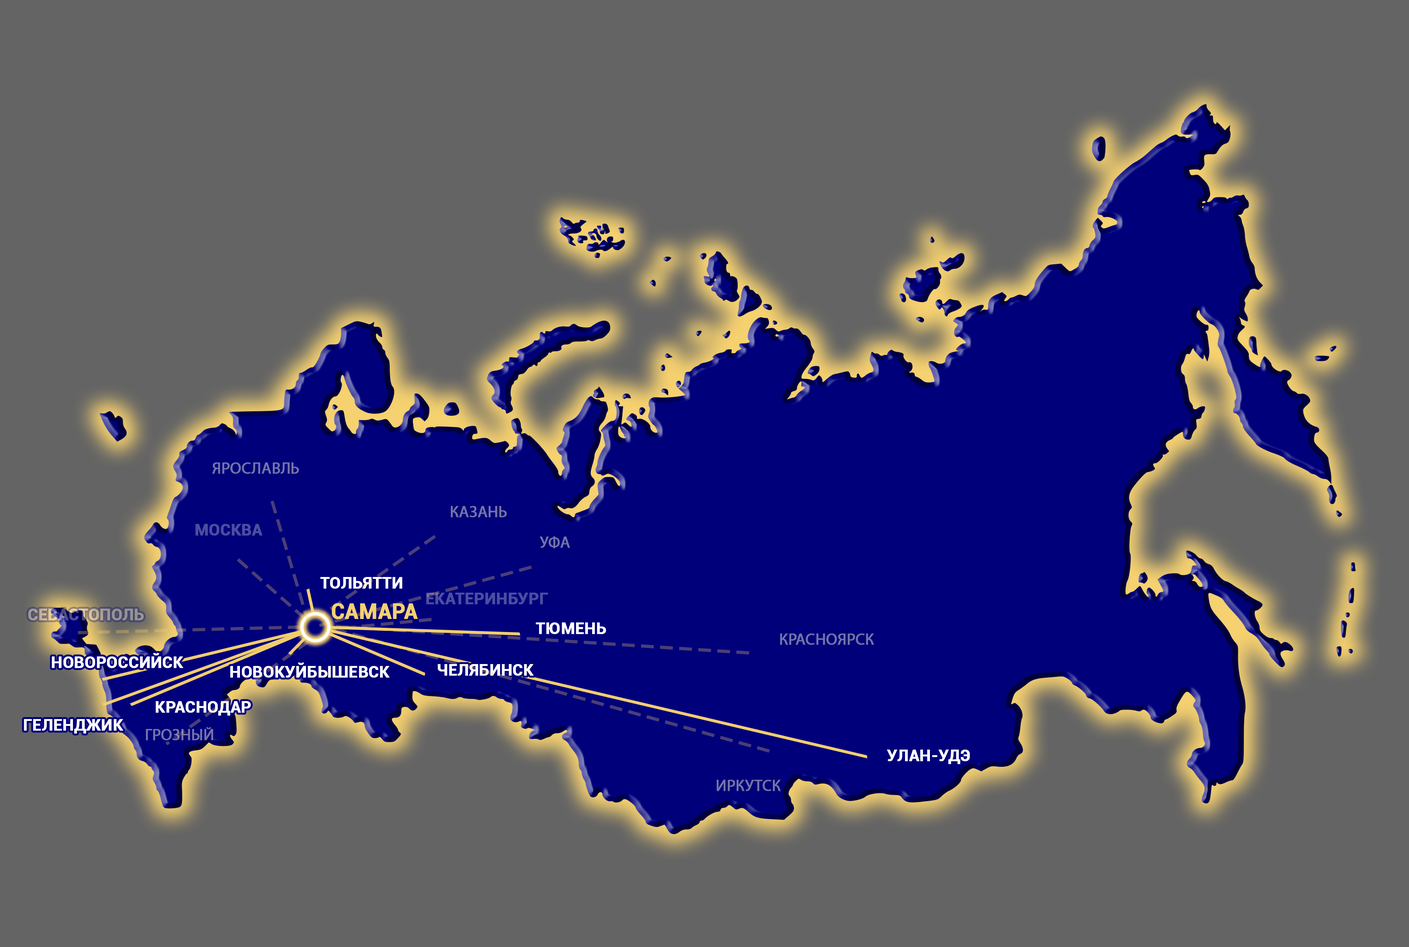
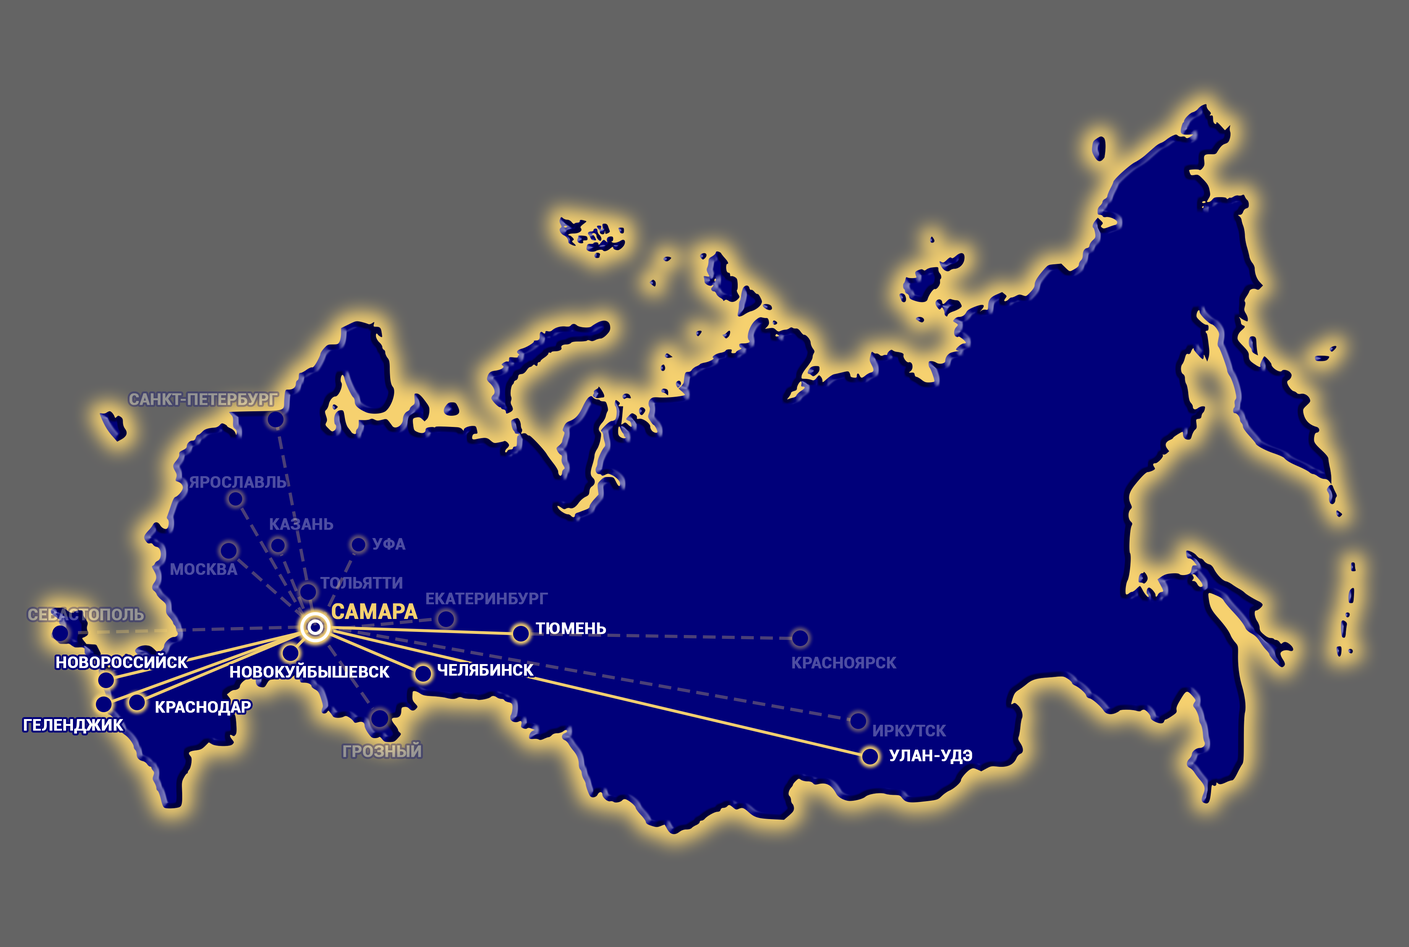
karta

diff --git a/karta/css/style.min.css b/karta/css/style.min.css
@@ -1,1 +1,1 @@
-*{margin:0;padding:0;-webkit-tap-highlight-color:rgba(0,0,0,0)}.karta{margin:0 auto;background:url(../img/Карта1.png);height:500px;position:relative;max-width:800px;background-repeat:no-repeat;background-position:center;background-size:100%}.karta__active{width:10px;position:absolute;height:10px;border-radius:50%;border:1px solid #dabd6d;box-shadow:0 0 2px 2px #dabd6d;cursor:pointer;background-color:#00007a}.karta__not-active{width:10px;position:absolute;height:10px;border-radius:50%;border:1px solid #393177;box-shadow:0 0 2px 2px #7066b8;background-color:#00007a;cursor:pointer}#tolyati{top:303px;left:21%}#tolyati:hover::before{-webkit-animation:pulse 1s;animation:pulse 1s;content:"";width:200px;position:absolute;top:-100px;left:10px;background-image:url(../img/Всплывашка_4.png);background-size:cover;height:100px;z-index:1}#samara{top:332px;left:173px}#samara:hover::before{-webkit-animation:pulse 1s;animation:pulse 1s;content:"";width:200px;position:absolute;top:-100px;left:10px;z-index:1;background-image:url(../img/Всплывашка_1.png);background-size:cover;height:100px}#chelyabinsk{top:363px;left:241px}#chelyabinsk:hover::before{-webkit-animation:pulse 1s;animation:pulse 1s;content:"";width:200px;position:absolute;top:-100px;z-index:1;left:10px;background-image:url(../img/Всплывашка_2.png);background-size:cover;height:100px}#chelyabinsk:focus::before{-webkit-animation:pulse 1s;animation:pulse 1s;content:"";width:200px;z-index:1;position:absolute;top:-100px;left:10px;background-image:url(../img/Всплывашка_2.png);background-size:cover;height:100px}#newKub{top:350px;left:153px}#newKub:hover::before{-webkit-animation:pulse 1s;animation:pulse 1s;content:"";width:200px;position:absolute;z-index:1;top:-100px;left:10px;background-image:url(../img/Всплывашка_3.png);background-size:cover;height:100px}#newKub:focus::before{-webkit-animation:pulse 1s;animation:pulse 1s;content:"";width:200px;z-index:1;position:absolute;top:-100px;left:10px;background-image:url(../img/Всплывашка_3.png);background-size:cover;height:100px}#newRos{top:362px;box-shadow:0 0 1px 2px #ffdb77;left:53px}#newRos:hover::before{-webkit-animation:pulse 1s;animation:pulse 1s;content:"";width:200px;z-index:1;position:absolute;top:-100px;left:10px;background-image:url(../img/Всплывашка_5.png);background-size:cover;height:100px}#newRos:focus::before{-webkit-animation:pulse 1s;animation:pulse 1s;content:"";width:200px;position:absolute;top:-100px;z-index:1;left:10px;background-image:url(../img/Всплывашка_5.png);background-size:cover;height:100px}#gelendgik{top:380px;box-shadow:0 0 1px 2px #ffdb77;left:53px}#gelendgik:hover::before{-webkit-animation:pulse 1s;animation:pulse 1s;content:"";width:200px;z-index:1;position:absolute;top:-100px;left:10px;background-image:url(../img/Всплывашка_5.png);background-size:cover;height:100px}#gelendgik:focus::before{-webkit-animation:pulse 1s;animation:pulse 1s;content:"";width:200px;position:absolute;top:-100px;z-index:1;left:10px;background-image:url(../img/Всплывашка_5.png);background-size:cover;height:100px}#krasnodar{top:380px;box-shadow:0 0 1px 2px #ffdb77;left:69px}#krasnodar:hover::before{-webkit-animation:pulse 1s;animation:pulse 1s;content:"";width:200px;position:absolute;z-index:1;top:-100px;left:10px;background-image:url(../img/Всплывашка_5.png);background-size:cover;height:100px}#krasnodar:focus::before{-webkit-animation:pulse 1s;animation:pulse 1s;content:"";width:200px;position:absolute;top:-100px;z-index:1;left:10px;background-image:url(../img/Всплывашка_5.png);background-size:cover;height:100px}#tumen{top:336px;left:293px}#tumen:hover::before{-webkit-animation:pulse 1s;animation:pulse 1s;content:"";width:200px;position:absolute;z-index:1;top:-100px;left:10px;background-image:url(../img/Всплывашка_1.png);background-size:cover;height:100px}#ulan{top:405px;left:490px}#ulan:hover::before{-webkit-animation:pulse 1s;animation:pulse 1s;content:"";width:200px;z-index:1;position:absolute;top:-100px;left:10px;background-image:url(../img/Всплывашка_1.png);background-size:cover;height:100px}#moscow{top:290px;left:125px}#moscow:hover::before{-webkit-animation:pulse 1s;animation:pulse 1s;content:"";z-index:1;width:200px;position:absolute;top:-100px;left:10px;background-image:url(../img/Всплывашка_6.png);background-size:cover;height:100px}#ekaterenburg{top:326px;left:243px}#ekaterenburg:hover::before{-webkit-animation:pulse 1s;animation:pulse 1s;z-index:1;content:"";width:200px;position:absolute;top:-100px;left:10px;background-image:url(../img/Всплывашка_7.png);background-size:cover;height:100px}#sevastopol{top:334px;left:30px}#sevastopol:hover::before{-webkit-animation:pulse 1s;animation:pulse 1s;content:"";width:200px;position:absolute;top:-100px;left:10px;background-image:url(../img/Всплывашка_7.png);background-size:cover;height:100px}#yaroslavl{top:253px;left:148px}#yaroslavl:hover::before{-webkit-animation:pulse 1s;animation:pulse 1s;content:"";z-index:1;width:200px;position:absolute;top:-100px;left:10px;background-image:url(../img/Всплывашка_7.png);background-size:cover;height:100px}#kazan{top:278px;left:243px}#kazan:hover::before{-webkit-animation:pulse 1s;animation:pulse 1s;content:"";z-index:1;width:200px;position:absolute;top:-100px;left:10px;background-image:url(../img/Всплывашка_7.png);background-size:cover;height:100px}#ufa{top:295px;left:300px}#ufa:hover::before{-webkit-animation:pulse 1s;animation:pulse 1s;content:"";z-index:1;width:200px;position:absolute;top:-100px;left:10px;background-image:url(../img/Всплывашка_7.png);background-size:cover;height:100px}#krasnoyarsk{top:345px;left:420px}#krasnoyarsk:hover::before{-webkit-animation:pulse 1s;animation:pulse 1s;content:"";z-index:1;width:200px;position:absolute;top:-100px;left:10px;background-image:url(../img/Всплывашка_7.png);background-size:cover;height:100px}#irkutsk{top:405px;left:430px}#irkutsk:hover::before{-webkit-animation:pulse 1s;animation:pulse 1s;content:"";z-index:1;width:200px;position:absolute;top:-100px;left:10px;background-image:url(../img/Всплывашка_7.png);background-size:cover;height:100px}#grosniy{top:405px;left:90px}#grosniy:hover::before{-webkit-animation:pulse 1s;animation:pulse 1s;content:"";z-index:1;width:200px;position:absolute;top:-100px;left:10px;background-image:url(../img/Всплывашка_7.png);background-size:cover;height:100px}@-webkit-keyframes pulse{0%{width:0}100%{width:200px}}@keyframes pulse{0%{width:0}100%{width:200px}}@media (max-width:546px){.karta__active{width:5px;height:5px;border-radius:50%;cursor:pointer}.karta__not-active{width:5px;height:5px;border-radius:50%;cursor:pointer}}
+*{margin:0;padding:0;-webkit-tap-highlight-color:rgba(0,0,0,0)}.karta{margin:0 auto;background:url(../img/Карта1.png);height:500px;position:relative;max-width:800px;background-repeat:no-repeat;background-position:center;background-size:100%}.karta__active{width:8px;position:absolute;height:8px;border-radius:50%;border:1px solid #dabd6d;box-shadow:0 0 2px 2px #dabd6d;cursor:pointer;background-color:#00007a}.karta__not-active{width:8px;position:absolute;height:8px;border-radius:50%;border:1px solid #393177;box-shadow:0 0 2px 2px #7066b8;background-color:#00007a;cursor:pointer}#tolyati{top:310px;left:21%}#tolyati:hover::before{-webkit-animation:pulse 1s;animation:pulse 1s;content:"";width:200px;position:absolute;top:-100px;left:10px;background-image:url(../img/Всплывашка_7.png);background-size:cover;height:100px;z-index:1}#samara{top:332px;left:173px}#samara:hover::before{-webkit-animation:pulse 1s;animation:pulse 1s;content:"";width:200px;position:absolute;top:-100px;left:10px;z-index:1;background-image:url(../img/Всплывашка_1.png);background-size:cover;height:100px}#chelyabinsk{top:359px;left:235px}#chelyabinsk:hover::before{-webkit-animation:pulse 1s;animation:pulse 1s;content:"";width:200px;position:absolute;top:-100px;z-index:1;left:10px;background-image:url(../img/Всплывашка_2.png);background-size:cover;height:100px}#chelyabinsk:focus::before{-webkit-animation:pulse 1s;animation:pulse 1s;content:"";width:200px;z-index:1;position:absolute;top:-100px;left:10px;background-image:url(../img/Всплывашка_2.png);background-size:cover;height:100px}#newKub{top:347px;left:160px}#newKub:hover::before{-webkit-animation:pulse 1s;animation:pulse 1s;content:"";width:200px;position:absolute;z-index:1;top:-100px;left:10px;background-image:url(../img/Всплывашка_3.png);background-size:cover;height:100px}#newKub:focus::before{-webkit-animation:pulse 1s;animation:pulse 1s;content:"";width:200px;z-index:1;position:absolute;top:-100px;left:10px;background-image:url(../img/Всплывашка_3.png);background-size:cover;height:100px}#newRos{top:362px;box-shadow:0 0 1px 2px #ffdb77;left:53px}#newRos:hover::before{-webkit-animation:pulse 1s;animation:pulse 1s;content:"";width:200px;z-index:1;position:absolute;top:-100px;left:10px;background-image:url(../img/Всплывашка_5.png);background-size:cover;height:100px}#newRos:focus::before{-webkit-animation:pulse 1s;animation:pulse 1s;content:"";width:200px;position:absolute;top:-100px;z-index:1;left:10px;background-image:url(../img/Всплывашка_5.png);background-size:cover;height:100px}#gelendgik{top:377px;box-shadow:0 0 1px 2px #ffdb77;left:53px}#gelendgik:hover::before{-webkit-animation:pulse 1s;animation:pulse 1s;content:"";width:200px;z-index:1;position:absolute;top:-100px;left:10px;background-image:url(../img/ВсплывашкаГеленджик.png);background-size:cover;height:100px}#gelendgik:focus::before{-webkit-animation:pulse 1s;animation:pulse 1s;content:"";width:200px;position:absolute;top:-100px;z-index:1;left:10px;background-image:url(../img/ВсплывашкаГеленджик.png);background-size:cover;height:100px}#krasnodar{top:376px;box-shadow:0 0 1px 2px #ffdb77;left:72px}#krasnodar:hover::before{-webkit-animation:pulse 1s;animation:pulse 1s;content:"";width:200px;position:absolute;z-index:1;top:-100px;left:10px;background-image:url(../img/ВсплывашкаКраснодар.png);background-size:cover;height:100px}#krasnodar:focus::before{-webkit-animation:pulse 1s;animation:pulse 1s;content:"";width:200px;position:absolute;top:-100px;z-index:1;left:10px;background-image:url(../img/ВсплывашкаКраснодар.png);background-size:cover;height:100px}#tumen{top:336px;left:293px}#tumen:hover::before{-webkit-animation:pulse 1s;animation:pulse 1s;content:"";width:200px;position:absolute;z-index:1;top:-100px;left:10px;background-image:url(../img/ВсплывашкаТюмень.png);background-size:cover;height:100px}#ulan{top:405px;left:490px}#ulan:hover::before{-webkit-animation:pulse 1s;animation:pulse 1s;content:"";width:200px;z-index:1;position:absolute;top:-100px;left:10px;background-image:url(../img/ВсплывашкаУлан-Удэ.png);background-size:cover;height:100px}#moscow{top:290px;left:125px}#moscow:hover::before{-webkit-animation:pulse 1s;animation:pulse 1s;content:"";z-index:1;width:200px;position:absolute;top:-100px;left:10px;background-image:url(../img/Всплывашка_6.png);background-size:cover;height:100px}#ekaterenburg{top:328px;left:248px}#ekaterenburg:hover::before{-webkit-animation:pulse 1s;animation:pulse 1s;z-index:1;content:"";width:200px;position:absolute;top:-100px;left:10px;background-image:url(../img/Всплывашка_7.png);background-size:cover;height:100px}#sevastopol{top:334px;left:30px}#sevastopol:hover::before{-webkit-animation:pulse 1s;animation:pulse 1s;content:"";width:200px;position:absolute;top:-100px;left:10px;background-image:url(../img/Всплывашка_7.png);background-size:cover;height:100px}#yaroslavl{top:262px;left:129px}#yaroslavl:hover::before{-webkit-animation:pulse 1s;animation:pulse 1s;content:"";z-index:1;width:200px;position:absolute;top:-100px;left:10px;background-image:url(../img/Всплывашка_7.png);background-size:cover;height:100px}#kazan{top:285px;left:153px}#kazan:hover::before{-webkit-animation:pulse 1s;animation:pulse 1s;content:"";z-index:1;width:200px;position:absolute;top:-100px;left:10px;background-image:url(../img/Всплывашка_7.png);background-size:cover;height:100px}#ufa{top:285px;left:198px}#ufa:hover::before{-webkit-animation:pulse 1s;animation:pulse 1s;content:"";z-index:1;width:200px;position:absolute;top:-100px;left:10px;background-image:url(../img/Всплывашка_7.png);background-size:cover;height:100px}#krasnoyarsk{top:339px;left:450px}#krasnoyarsk:hover::before{-webkit-animation:pulse 1s;animation:pulse 1s;content:"";z-index:1;width:200px;position:absolute;top:-100px;left:10px;background-image:url(../img/Всплывашка_7.png);background-size:cover;height:100px}#irkutsk{top:385px;left:482px}#irkutsk:hover::before{-webkit-animation:pulse 1s;animation:pulse 1s;content:"";z-index:1;width:200px;position:absolute;top:-100px;left:10px;background-image:url(../img/Всплывашка_7.png);background-size:cover;height:100px}#grosniy{top:385px;left:210px}#grosniy:hover::before{-webkit-animation:pulse 1s;animation:pulse 1s;content:"";z-index:1;width:200px;position:absolute;top:-100px;left:10px;background-image:url(../img/Всплывашка_7.png);background-size:cover;height:100px}#peterburg{top:214px;left:152px}#peterburg:hover::before{-webkit-animation:pulse 1s;animation:pulse 1s;content:"";z-index:1;width:200px;position:absolute;top:-100px;left:10px;background-image:url(../img/Всплывашка_7.png);background-size:cover;height:100px}@-webkit-keyframes pulse{0%{width:0}100%{width:200px}}@keyframes pulse{0%{width:0}100%{width:200px}}@media (max-width:546px){.karta__active{width:5px;height:5px;border-radius:50%;cursor:pointer}.karta__not-active{width:5px;height:5px;border-radius:50%;cursor:pointer}}

diff --git a/karta/sass/style.sass b/karta/sass/style.sass
@@ -13,18 +13,18 @@
     background-position: center
     background-size: 100%
     &__active
-        width: 10px
+        width: 8px
         position: absolute
-        height: 10px
+        height: 8px
         border-radius: 50%
         border: 1px solid #DABD6D
         box-shadow: 0 0 2px 2px #dabd6d
         cursor: pointer
         background-color: #00007A
     &__not-active
-        width: 10px
+        width: 8px
         position: absolute
-        height: 10px
+        height: 8px
         border-radius: 50%
         border: 1px solid #393177
         box-shadow: 0 0 2px 2px #7066b8
@@ -33,7 +33,7 @@
 
 
 #tolyati
-    top: 303px
+    top: 310px
     left: 21%
     &:hover
         &::before
@@ -43,7 +43,7 @@
             position: absolute
             top: -100px
             left: 10px
-            background-image: url(../img/Всплывашка_4.png)
+            background-image: url(../img/Всплывашка_7.png)
             background-size: cover
             height: 100px
             z-index: 1
@@ -63,8 +63,8 @@
             background-size: cover
             height: 100px
 #chelyabinsk
-    top: 363px
-    left: 241px
+    top: 359px
+    left: 235px
     &:hover
         &::before
             animation: pulse 1s
@@ -91,8 +91,8 @@
             height: 100px
             
 #newKub
-    top: 350px
-    left: 153px
+    top: 347px
+    left: 160px
     &:hover
         &::before
             animation: pulse 1s
@@ -147,7 +147,7 @@
             background-size: cover
             height: 100px   
 #gelendgik
-    top: 380px
+    top: 377px
     box-shadow: 0 0 1px 2px #ffdb77
     left: 53px
     &:hover
@@ -159,7 +159,7 @@
             position: absolute
             top: -100px
             left: 10px
-            background-image: url(../img/Всплывашка_5.png)
+            background-image: url(../img/ВсплывашкаГеленджик.png)
             background-size: cover
             height: 100px
     &:focus
@@ -171,13 +171,13 @@
             top: -100px
             z-index: 1
             left: 10px
-            background-image: url(../img/Всплывашка_5.png)
+            background-image: url(../img/ВсплывашкаГеленджик.png)
             background-size: cover
             height: 100px   
 #krasnodar
-    top: 380px
+    top: 376px
     box-shadow: 0 0 1px 2px #ffdb77
-    left: 69px
+    left: 72px
     &:hover
         &::before
             animation: pulse 1s
@@ -187,7 +187,7 @@
             z-index: 1
             top: -100px
             left: 10px
-            background-image: url(../img/Всплывашка_5.png)
+            background-image: url(../img/ВсплывашкаКраснодар.png)
             background-size: cover
             height: 100px
     &:focus
@@ -199,7 +199,7 @@
             top: -100px
             z-index: 1
             left: 10px
-            background-image: url(../img/Всплывашка_5.png)
+            background-image: url(../img/ВсплывашкаКраснодар.png)
             background-size: cover
             height: 100px  
 #tumen
@@ -214,7 +214,7 @@
             z-index: 1
             top: -100px
             left: 10px
-            background-image: url(../img/Всплывашка_1.png)
+            background-image: url(../img/ВсплывашкаТюмень.png)
             background-size: cover
             height: 100px
 #ulan
@@ -229,7 +229,7 @@
             position: absolute
             top: -100px
             left: 10px
-            background-image: url(../img/Всплывашка_1.png)
+            background-image: url(../img/ВсплывашкаУлан-Удэ.png)
             background-size: cover
             height: 100px
 #moscow
@@ -248,8 +248,8 @@
             background-size: cover
             height: 100px
 #ekaterenburg
-    top: 326px
-    left: 243px
+    top: 328px
+    left: 248px
     &:hover
         &::before
             animation: pulse 1s
@@ -277,8 +277,8 @@
             background-size: cover
             height: 100px
 #yaroslavl
-    top: 253px
-    left: 148px
+    top: 262px
+    left: 129px
     &:hover
         &::before
             animation: pulse 1s
@@ -292,8 +292,8 @@
             background-size: cover
             height: 100px
 #kazan
-    top: 278px
-    left: 243px
+    top: 285px
+    left: 153px
     &:hover
         &::before
             animation: pulse 1s
@@ -307,8 +307,8 @@
             background-size: cover
             height: 100px
 #ufa
-    top: 295px
-    left: 300px
+    top: 285px
+    left: 198px
     &:hover
         &::before
             animation: pulse 1s
@@ -322,8 +322,8 @@
             background-size: cover
             height: 100px
 #krasnoyarsk
-    top: 345px
-    left: 420px
+    top: 339px
+    left: 450px
     &:hover
         &::before
             animation: pulse 1s
@@ -337,8 +337,8 @@
             background-size: cover
             height: 100px
 #irkutsk
-    top: 405px
-    left: 430px
+    top: 385px
+    left: 482px
     &:hover
         &::before
             animation: pulse 1s
@@ -352,8 +352,23 @@
             background-size: cover
             height: 100px
 #grosniy
-    top: 405px
-    left: 90px
+    top: 385px
+    left: 210px
+    &:hover
+        &::before
+            animation: pulse 1s
+            content: ""
+            z-index: 1
+            width: 200px
+            position: absolute
+            top: -100px
+            left: 10px
+            background-image: url(../img/Всплывашка_7.png)
+            background-size: cover
+            height: 100px
+#peterburg
+    top: 214px
+    left: 152px
     &:hover
         &::before
             animation: pulse 1s

diff --git a/karta/js/script.js b/karta/js/script.js
@@ -1,79 +1,28 @@
 let width = document.body.clientWidth,
     newWidt = (800 - width);
 
+function newPos (top,left, id){
+    let newTop =  parseInt($(id).css('top'))-(newWidt*top);
+    let newLeft =  parseInt($(id).css('left'))-(newWidt*left);
+    $(id).css({
+        top: newTop,
+        left: newLeft
+    })
+}
+
 if((width < 800) && (width > 546)){
-        let newTop =  parseInt($('.karta__active').eq(2).css('top'))-(newWidt*0.16);
-        let newLeft =  parseInt($('.karta__active').eq(2).css('left'))-(newWidt*0.30);
-        $('.karta__active').eq(2).css({
-            top: newTop,
-            left: newLeft
-        })
-         newTop =  parseInt($('.karta__active').eq(0).css('top'))-(newWidt*0.07);
-         newLeft =  parseInt($('.karta__active').eq(0).css('left'))-(newWidt*0.02);
-        $('.karta__active').eq(0).css({
-            top: newTop,
-            left: newLeft
-        })
-        newTop =  parseInt($('.karta__active').eq(1).css('top'))-(newWidt*0.11);
-         newLeft =  parseInt($('.karta__active').eq(1).css('left'))-(newWidt*0.22);
-        $('.karta__active').eq(1).css({
-            top: newTop,
-            left: newLeft
-        })
-        newTop =  parseInt($('.karta__active').eq(3).css('top'))-(newWidt*0.11);
-         newLeft =  parseInt($('.karta__active').eq(3).css('left'))-(newWidt*0.2);
-        $('.karta__active').eq(3).css({
-            top: newTop,
-            left: newLeft
-        })
-        newTop =  parseInt($('.karta__active').eq(4).css('top'))-(newWidt*0.15);
-         newLeft =  parseInt($('.karta__active').eq(4).css('left'))-(newWidt*0.1);
-        $('.karta__active').eq(4).css({
-            top: newTop,
-            left: newLeft
-        })
-        newTop =  parseInt($('.karta__active').eq(5).css('top'))-(newWidt*0.17);
-         newLeft =  parseInt($('.karta__active').eq(5).css('left'))-(newWidt*0.1);
-        $('.karta__active').eq(5).css({
-            top: newTop,
-            left: newLeft
-        })
-        newTop =  parseInt($('.karta__active').eq(6).css('top'))-(newWidt*0.17);
-         newLeft =  parseInt($('.karta__active').eq(6).css('left'))-(newWidt*0.08);
-        $('.karta__active').eq(6).css({
-            top: newTop,
-            left: newLeft
-        })
-        newTop =  parseInt($('.karta__active').eq(7).css('top'))-(newWidt*0.12);
-         newLeft =  parseInt($('.karta__active').eq(7).css('left'))-(newWidt*0.4);
-        $('.karta__active').eq(7).css({
-            top: newTop,
-            left: newLeft
-        })
-        newTop =  parseInt($('.karta__active').eq(8).css('top'))-(newWidt*0.2);
-         newLeft =  parseInt($('.karta__active').eq(8).css('left'))-(newWidt*0.63);
-        $('.karta__active').eq(8).css({
-            top: newTop,
-            left: newLeft
-        })
-        newTop =  parseInt($('.karta__not-active').eq(0).css('top'))-(newWidt*0.05);
-         newLeft =  parseInt($('.karta__not-active').eq(0).css('left'))-(newWidt*0.15);
-        $('.karta__not-active').eq(0).css({
-            top: newTop,
-            left: newLeft
-        })
-        newTop =  parseInt($('.karta__not-active').eq(1).css('top'))-(newWidt*0.09);
-         newLeft =  parseInt($('.karta__not-active').eq(1).css('left'))-(newWidt*0.3);
-        $('.karta__not-active').eq(1).css({
-            top: newTop,
-            left: newLeft
-        })
-        newTop =  parseInt($('.karta__not-active').eq(3).css('top'))-(newWidt*0.01);
-         newLeft =  parseInt($('.karta__not-active').eq(3).css('left'))-(newWidt*0.2);
-        $('.karta__not-active').eq(3).css({
-            top: newTop,
-            left: newLeft
-        })
+        newPos(0.12, 0.19, '#newKub');
+        newPos(0.1 , 0.22, '#samara');
+        newPos(0.14,0.3,'#chelyabinsk');
+        newPos(0.13,0.06,'#newRos');
+        newPos(0.18,0.08,'#gelendgik')
+        newPos(0.17,0.08,'#krasnodar');
+        newPos(0.1,0.4,'#tumen');
+        newPos(0.18,0.63,'#ulan');
+        newPos(0.07,-0.01,'#tolyati')
+        newPos(0.07,0.16,'#moscow')
+        newPos(0.09,0.3,"#ekaterenburg");
+        newPos(0.09,0.06,'#sevastopol');
         newTop =  parseInt($('.karta__not-active').eq(4).css('top'))-(newWidt*0.05);
          newLeft =  parseInt($('.karta__not-active').eq(4).css('left'))-(newWidt*0.3);
         $('.karta__not-active').eq(4).css({

diff --git a/karta/index.html b/karta/index.html
@@ -8,7 +8,7 @@
 </head>
 <body>
     <div class="karta">
-        <div id='tolyati' class="karta__active"></div>
+        <div id='tolyati' class="karta__not-active"></div>
         <div id='samara' class="karta__active"></div>
         <div id="chelyabinsk" class="karta__active"></div>
         <div id='newKub' class="karta__active"></div>
@@ -26,6 +26,7 @@
         <div id="krasnoyarsk" class="karta__not-active"></div>
         <div id="irkutsk" class="karta__not-active"></div>
         <div id="grosniy" class="karta__not-active"></div>
+        <div id="peterburg" class="karta__not-active"></div>
     </div>
     <script src="https://ajax.googleapis.com/ajax/libs/jquery/3.5.1/jquery.min.js"></script>
     <script src="js/script.js"></script>
